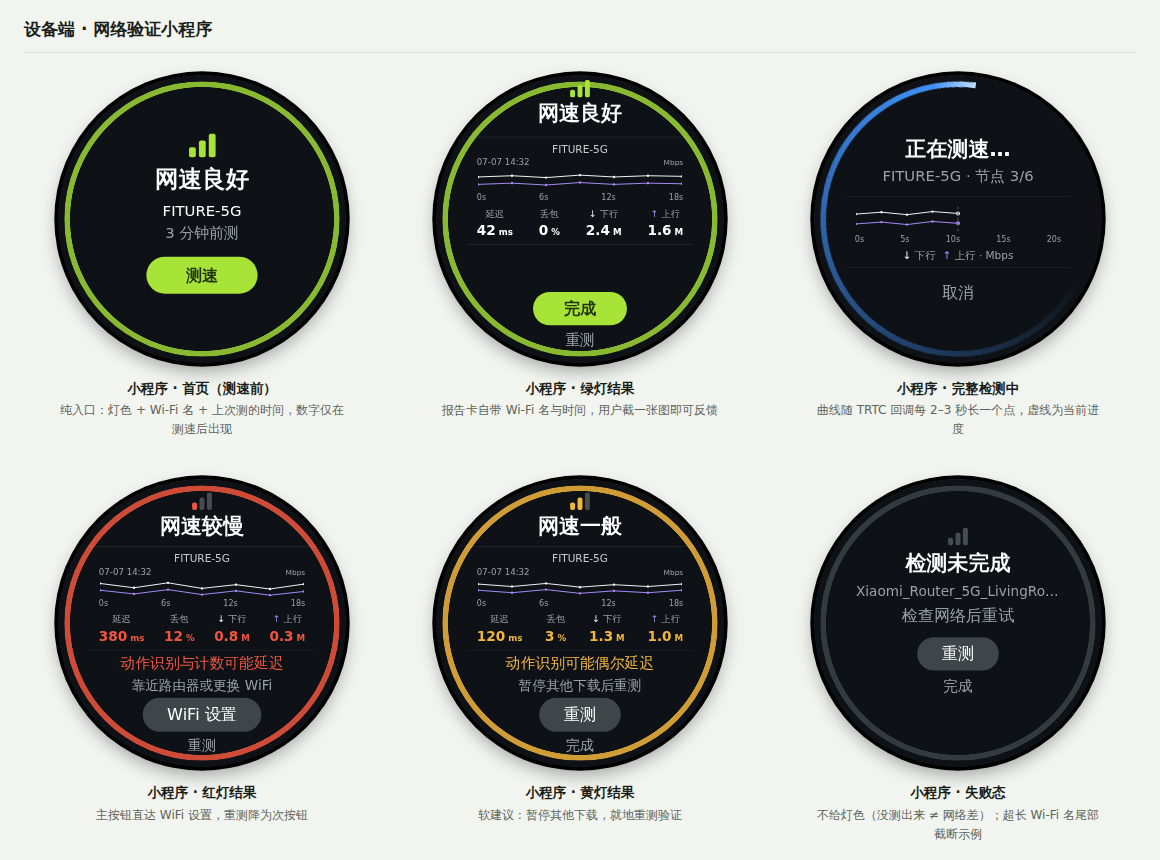
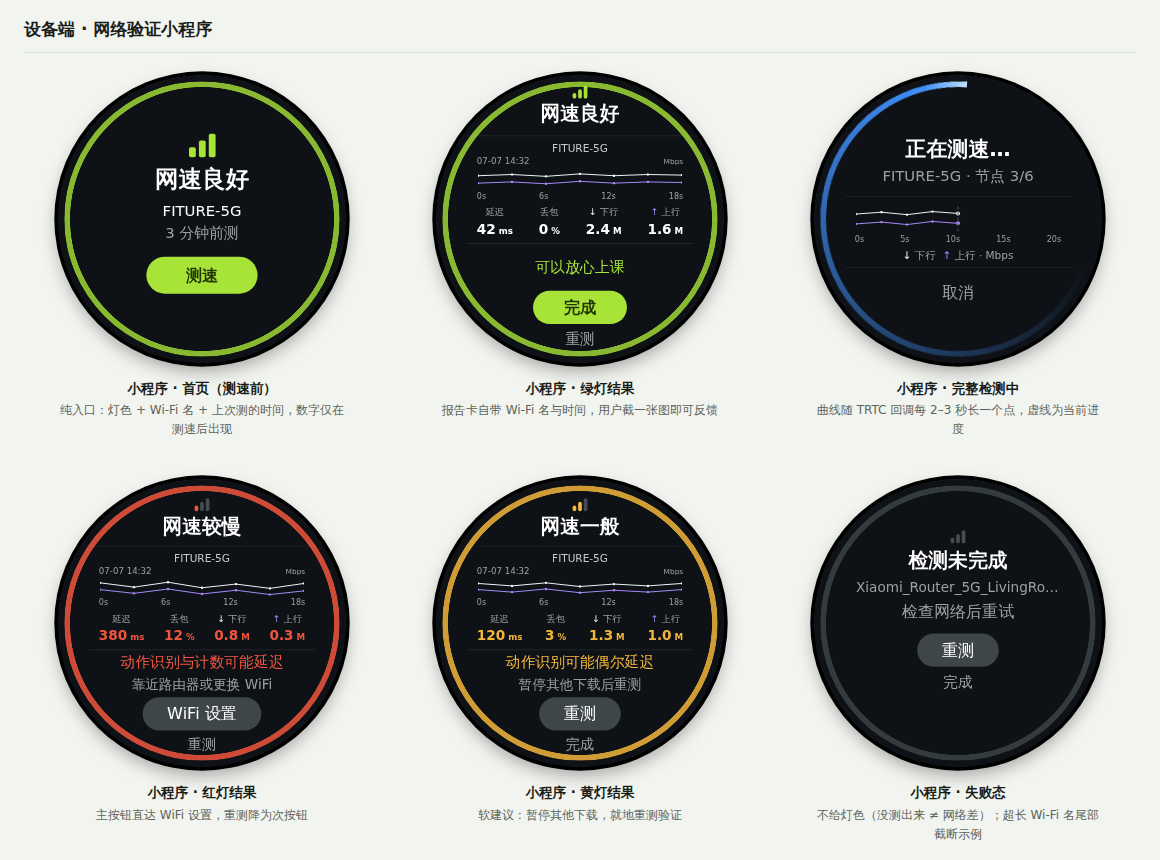
Smaller lowered header bars; green state gets a reassurance line
- Result/failure screens use a 75%-scale bars glyph with extra top
  clearance so the top row never crowds the bezel; result titles 32
- Green result fills its notes zone with "可以放心上课 / Ready for
  class" instead of an empty spacer - the card-to-button gap reads
  intentional and buttons stay fixed across all four states
- Decision recorded: bottom-anchored buttons + vertically-centered
  card was rejected (card height would shift between states and
  screenshots wouldn't line up)

Claude-Session: https://claude.ai/code/session_01GK61VJL6HvXSFdCeuPzjiU

diff --git a/Demo-界面交互UI设计.html b/Demo-界面交互UI设计.html
@@ -66,6 +66,8 @@
   .bars .b1 { height: 12px; } .bars .b2 { height: 20px; } .bars .b3 { height: 28px; }
   .bars.lg { gap: 5px; } .bars.lg i { width: 11px; }
   .bars.lg .b1 { height: 16px; } .bars.lg .b2 { height: 27px; } .bars.lg .b3 { height: 38px; }
+  .bars.sm { gap: 3px; } .bars.sm i { width: 6px; }
+  .bars.sm .b1 { height: 9px; } .bars.sm .b2 { height: 15px; } .bars.sm .b3 { height: 21px; }
   .bars .dim { background: #454d50; }
   .mbars { display: inline-flex; align-items: flex-end; gap: 2px; flex: none; }
   .mbars i { display: block; width: 3px; border-radius: 1px; }
@@ -291,9 +293,9 @@
     <figure class="shot">
       <div class="device"><div class="screen">
         <div class="ring ok"></div>
-        <div style="flex:.36"></div>
-        <span class="bars"><i class="b1" style="background:var(--dev-good)"></i><i class="b2" style="background:var(--dev-good)"></i><i class="b3" style="background:var(--dev-good)"></i></span>
-        <div class="big-status" style="margin-top:2px; font-size:34px" data-en="Good speed">网速良好</div>
+        <div style="flex:.52"></div>
+        <span class="bars sm"><i class="b1" style="background:var(--dev-good)"></i><i class="b2" style="background:var(--dev-good)"></i><i class="b3" style="background:var(--dev-good)"></i></span>
+        <div class="big-status" style="margin-top:2px; font-size:32px" data-en="Good speed">网速良好</div>
         <div class="report-card" style="margin-top:14px">
           <div class="rc-head"><span class="ssid">FITURE-5G</span></div><div class="rc-date"><span>07-07 14:32</span><span style="font-size:12px">Mbps</span></div><svg width="330" height="34" viewBox="0 0 330 34"><polyline points="0,12 55,10 110,13 165,9 220,12 275,10 330,11" fill="none" stroke="#f2f5f6" stroke-width="1.6" stroke-linecap="round"/><circle cx="0" cy="12" r="1.9" fill="#f2f5f6"/><circle cx="55" cy="10" r="1.9" fill="#f2f5f6"/><circle cx="110" cy="13" r="1.9" fill="#f2f5f6"/><circle cx="165" cy="9" r="1.9" fill="#f2f5f6"/><circle cx="220" cy="12" r="1.9" fill="#f2f5f6"/><circle cx="275" cy="10" r="1.9" fill="#f2f5f6"/><circle cx="330" cy="11" r="1.9" fill="#f2f5f6"/><polyline points="0,24 55,22 110,25 165,21 220,24 275,22 330,23" fill="none" stroke="#a78bfa" stroke-width="1.6" stroke-linecap="round"/><circle cx="0" cy="24" r="1.9" fill="#a78bfa"/><circle cx="55" cy="22" r="1.9" fill="#a78bfa"/><circle cx="110" cy="25" r="1.9" fill="#a78bfa"/><circle cx="165" cy="21" r="1.9" fill="#a78bfa"/><circle cx="220" cy="24" r="1.9" fill="#a78bfa"/><circle cx="275" cy="22" r="1.9" fill="#a78bfa"/><circle cx="330" cy="23" r="1.9" fill="#a78bfa"/></svg><div class="rc-axis"><span>0s</span><span>6s</span><span>12s</span><span>18s</span></div>
           <div class="rc-metrics">
@@ -303,10 +305,10 @@
             <div><div class="k"><span style="color:#a78bfa">↑</span> <span data-en="Up">上行</span></div><div class="v">1.6<span> M</span></div></div>
           </div>
           </div>
-        <div class="rc-notes"></div>
+        <div class="rc-notes"><div style="font-size:24px; color:var(--dev-good)" data-en="Ready for class">可以放心上课</div></div>
         <div class="btn primary" style="margin-top:0; padding:9px 50px" data-en="Done">完成</div>
         <div style="font-size:24px; color:var(--dev-sub); margin-top:8px" data-en="Retest">重测</div>
-        <div style="flex:.85"></div>
+        <div style="flex:.66"></div>
       </div></div>
       <figcaption><b>小程序 · 绿灯结果</b><span>报告卡自带 Wi-Fi 名与时间，用户截一张图即可反馈</span></figcaption>
     </figure>
@@ -330,9 +332,9 @@
     <figure class="shot">
       <div class="device"><div class="screen">
         <div class="ring err"></div>
-        <div style="flex:.68"></div>
-        <span class="bars"><i class="b1" style="background:var(--dev-bad)"></i><i class="b2 dim"></i><i class="b3 dim"></i></span>
-        <div class="big-status" style="margin-top:2px; font-size:34px" data-en="Slow speed">网速较慢</div>
+        <div style="flex:.78"></div>
+        <span class="bars sm"><i class="b1" style="background:var(--dev-bad)"></i><i class="b2 dim"></i><i class="b3 dim"></i></span>
+        <div class="big-status" style="margin-top:2px; font-size:32px" data-en="Slow speed">网速较慢</div>
         <div class="report-card" style="margin-top:10px; padding-top:8px">
           <div class="rc-head"><span class="ssid">FITURE-5G</span></div><div class="rc-date"><span>07-07 14:32</span><span style="font-size:12px">Mbps</span></div><svg width="330" height="28" viewBox="0 0 330 28"><polyline points="0,7 55,14 110,6 165,15 220,9 275,16 330,8" fill="none" stroke="#f2f5f6" stroke-width="1.6" stroke-linecap="round"/><circle cx="0" cy="7" r="1.9" fill="#f2f5f6"/><circle cx="55" cy="14" r="1.9" fill="#f2f5f6"/><circle cx="110" cy="6" r="1.9" fill="#f2f5f6"/><circle cx="165" cy="15" r="1.9" fill="#f2f5f6"/><circle cx="220" cy="9" r="1.9" fill="#f2f5f6"/><circle cx="275" cy="16" r="1.9" fill="#f2f5f6"/><circle cx="330" cy="8" r="1.9" fill="#f2f5f6"/><polyline points="0,18 55,24 110,17 165,25 220,19 275,26 330,20" fill="none" stroke="#a78bfa" stroke-width="1.6" stroke-linecap="round"/><circle cx="0" cy="18" r="1.9" fill="#a78bfa"/><circle cx="55" cy="24" r="1.9" fill="#a78bfa"/><circle cx="110" cy="17" r="1.9" fill="#a78bfa"/><circle cx="165" cy="25" r="1.9" fill="#a78bfa"/><circle cx="220" cy="19" r="1.9" fill="#a78bfa"/><circle cx="275" cy="26" r="1.9" fill="#a78bfa"/><circle cx="330" cy="20" r="1.9" fill="#a78bfa"/></svg><div class="rc-axis"><span>0s</span><span>6s</span><span>12s</span><span>18s</span></div>
           <div class="rc-metrics">
@@ -346,7 +348,7 @@
         <div class="advice" style="margin-top:3px; font-size:22px; width:370px" data-en="Move closer or switch Wi-Fi">靠近路由器或更换 WiFi</div></div>
         <div class="btn" style="margin-top:0; padding:9px 40px" data-en="Wi-Fi Settings">WiFi 设置</div>
         <div style="font-size:23px; color:var(--dev-sub); margin-top:6px" data-en="Retest">重测</div>
-        <div style="flex:.6"></div>
+        <div style="flex:.52"></div>
       </div></div>
       <figcaption><b>小程序 · 红灯结果</b><span>主按钮直达 WiFi 设置，重测降为次按钮</span></figcaption>
     </figure>
@@ -354,9 +356,9 @@
     <figure class="shot">
       <div class="device"><div class="screen">
         <div class="ring warn"></div>
-        <div style="flex:.68"></div>
-        <span class="bars"><i class="b1" style="background:var(--dev-warn)"></i><i class="b2" style="background:var(--dev-warn)"></i><i class="b3 dim"></i></span>
-        <div class="big-status" style="margin-top:2px; font-size:34px" data-en="Fair speed">网速一般</div>
+        <div style="flex:.78"></div>
+        <span class="bars sm"><i class="b1" style="background:var(--dev-warn)"></i><i class="b2" style="background:var(--dev-warn)"></i><i class="b3 dim"></i></span>
+        <div class="big-status" style="margin-top:2px; font-size:32px" data-en="Fair speed">网速一般</div>
         <div class="report-card" style="margin-top:10px; padding-top:8px">
           <div class="rc-head"><span class="ssid">FITURE-5G</span></div><div class="rc-date"><span>07-07 14:32</span><span style="font-size:12px">Mbps</span></div><svg width="330" height="28" viewBox="0 0 330 28"><polyline points="0,8 55,12 110,7 165,13 220,9 275,12 330,8" fill="none" stroke="#f2f5f6" stroke-width="1.6" stroke-linecap="round"/><circle cx="0" cy="8" r="1.9" fill="#f2f5f6"/><circle cx="55" cy="12" r="1.9" fill="#f2f5f6"/><circle cx="110" cy="7" r="1.9" fill="#f2f5f6"/><circle cx="165" cy="13" r="1.9" fill="#f2f5f6"/><circle cx="220" cy="9" r="1.9" fill="#f2f5f6"/><circle cx="275" cy="12" r="1.9" fill="#f2f5f6"/><circle cx="330" cy="8" r="1.9" fill="#f2f5f6"/><polyline points="0,18 55,22 110,17 165,23 220,19 275,22 330,18" fill="none" stroke="#a78bfa" stroke-width="1.6" stroke-linecap="round"/><circle cx="0" cy="18" r="1.9" fill="#a78bfa"/><circle cx="55" cy="22" r="1.9" fill="#a78bfa"/><circle cx="110" cy="17" r="1.9" fill="#a78bfa"/><circle cx="165" cy="23" r="1.9" fill="#a78bfa"/><circle cx="220" cy="19" r="1.9" fill="#a78bfa"/><circle cx="275" cy="22" r="1.9" fill="#a78bfa"/><circle cx="330" cy="18" r="1.9" fill="#a78bfa"/></svg><div class="rc-axis"><span>0s</span><span>6s</span><span>12s</span><span>18s</span></div>
           <div class="rc-metrics">
@@ -370,7 +372,7 @@
         <div class="advice" style="margin-top:3px; font-size:22px; width:370px" data-en="Pause other downloads, retest">暂停其他下载后重测</div></div>
         <div class="btn" style="margin-top:0; padding:9px 40px" data-en="Retest">重测</div>
         <div style="font-size:23px; color:var(--dev-sub); margin-top:6px" data-en="Done">完成</div>
-        <div style="flex:.6"></div>
+        <div style="flex:.52"></div>
       </div></div>
       <figcaption><b>小程序 · 黄灯结果</b><span>软建议：暂停其他下载，就地重测验证</span></figcaption>
     </figure>
@@ -379,8 +381,8 @@
       <div class="device"><div class="screen">
         <div class="ring" style="background:conic-gradient(#454d50 0 100%); opacity:.7"></div>
         <div style="flex:.7"></div>
-        <span class="bars"><i class="b1 dim"></i><i class="b2 dim"></i><i class="b3 dim"></i></span>
-        <div class="big-status" style="font-size:34px; margin-top:6px" data-en="Test incomplete">检测未完成</div>
+        <span class="bars sm"><i class="b1 dim"></i><i class="b2 dim"></i><i class="b3 dim"></i></span>
+        <div class="big-status" style="font-size:32px; margin-top:6px" data-en="Test incomplete">检测未完成</div>
         <div style="font-size:22px; color:var(--dev-sub); margin-top:6px; max-width:330px; overflow:hidden; text-overflow:ellipsis; white-space:nowrap">Xiaomi_Router_5G_LivingRoom_2401</div>
         <div class="advice" style="margin-top:4px" data-en="Check network and retry">检查网络后重试</div>
         <div class="btn" style="margin-top:16px; padding:9px 40px" data-en="Retest">重测</div>

diff --git a/PRD-atom网络状态检测与信号同步.md b/PRD-atom网络状态检测与信号同步.md
@@ -118,7 +118,7 @@ ATOM 是一台通过 WiFi 联网的嵌入式训练设备，上课时通过 TRTC 
 
 - **A4.1 首页 = 纯入口（测速前）**：灯色 bars + 一句话结论 + **当前 Wi-Fi 名（SSID）** + 副行数据时效（「刚刚更新」≤60 秒 /「N 分钟前测」≤5 分钟）+ 主按钮「测速」。SSID 必须外显——用户点进来看「网好不好」时往往不知道自己连的是哪个 WiFi，灯色结论必须挂在具体网络名下才可归因（与 B2 按 SSID 缓存一致）。**不展示任何数字指标**——常驻探测没有真实带宽，数字只在测速后出现，「测速前 = 入口、测速后 = 报告」天然可区分；缓存超 5 分钟不显示旧灯色，直接「检测中…」并刷新；
 - **A4.2 检测中**：标题「正在测速…」+ 副行「Wi-Fi: {SSID} · 节点 N / M」（按官方回调驱动，不做假进度）+ 报告卡内波形实时生长（↓ 灰白 = 下行、↑ 紫 = 上行，见 A4.7）+「取消」（调用 `stopSpeedTest`）；按钮防重入（官方限制同一时间仅一个测速任务）；
-- **A4.3 结果页信息分组（四组，组间距 > 组内距）**：① 结论（bars + 一句话）→ ② **报告卡**，卡内自上而下：**表头两行——第 1 行 SSID（超长截断）、第 2 行日期时间（独占一行，永不被 SSID 挤掉）**，不加「Wi-Fi:」前缀（上下文已明确，标签属冗余；带日期是为了反馈截图能和后端日志对上，方便 debug）→ 波形定格 + 时间轴（表头第二行两端对齐：**日期时间靠左、单位「Mbps」靠右**——曲线纵轴 = 上下行带宽，不占额外行高；检测中页无表头，单位并入图例行「↓ 下行 ↑ 上行 · Mbps」）→ 四指标一行：延迟 / 丢包 / ↓ 下行 / ↑ 上行，**标签在上、数值在下**（对比过数值在上的方案：标签在上阅读顺序自然「先知道是什么再看多少」、↓↑ 箭头更靠近它解释的曲线、卡片底边收在加粗数值上更稳，与 Ookla 等主流测速工具一致；标签带曲线同色箭头；-1 显示「—」；着色标准见下表）→ ③ 影响 + 建议（仅黄 / 红；**各固定一行，字数预算：中文 ≤ 14 全角、EN ≤ 30 字符**——这两处是我们自己维护的固定文案集而非动态内容，靠文案表管控长度即可；**不采用跑马灯**：滚动文字在 1–2 米观看距离难读，且截图会截到半句话，破坏「截图即报告」）→ ④ 操作。**影响 / 建议 + 按钮组成固定高度的操作区，主按钮与次按钮的位置在绿 / 黄 / 红 / 失败四态间完全一致**（绿灯无影响建议时留空占位）——重测循环里按钮不位移，防误触、建立肌肉记忆。**一张报告卡 = 一份完整测速报告，截图即可反馈客服**（截图给人看，上报给系统看）。稳定性派生标签：样本方差超阈值时卡下方显示「网络波动较大」。
+- **A4.3 结果页信息分组（四组，组间距 > 组内距）**：① 结论（bars + 一句话）→ ② **报告卡**，卡内自上而下：**表头两行——第 1 行 SSID（超长截断）、第 2 行日期时间（独占一行，永不被 SSID 挤掉）**，不加「Wi-Fi:」前缀（上下文已明确，标签属冗余；带日期是为了反馈截图能和后端日志对上，方便 debug）→ 波形定格 + 时间轴（表头第二行两端对齐：**日期时间靠左、单位「Mbps」靠右**——曲线纵轴 = 上下行带宽，不占额外行高；检测中页无表头，单位并入图例行「↓ 下行 ↑ 上行 · Mbps」）→ 四指标一行：延迟 / 丢包 / ↓ 下行 / ↑ 上行，**标签在上、数值在下**（对比过数值在上的方案：标签在上阅读顺序自然「先知道是什么再看多少」、↓↑ 箭头更靠近它解释的曲线、卡片底边收在加粗数值上更稳，与 Ookla 等主流测速工具一致；标签带曲线同色箭头；-1 显示「—」；着色标准见下表）→ ③ 影响 + 建议（绿灯影响行 = 正向一句「可以放心上课」，黄 / 红 = 风险提示；**各固定一行，字数预算：中文 ≤ 14 全角、EN ≤ 30 字符**——这两处是我们自己维护的固定文案集而非动态内容，靠文案表管控长度即可；**不采用跑马灯**：滚动文字在 1–2 米观看距离难读，且截图会截到半句话，破坏「截图即报告」）→ ④ 操作。**影响 / 建议 + 按钮组成固定高度的操作区，主按钮与次按钮的位置在绿 / 黄 / 红 / 失败四态间完全一致**——重测循环里按钮不位移，防误触、建立肌肉记忆。**决策记录**：对比过「按钮沉底 + 报告卡在剩余空间垂直居中」的动态布局——被否，动态居中会让绿灯与黄 / 红灯的报告卡处在不同高度，状态切换跳动、两张截图对不齐；改为绿灯操作区补一句正向文案，空间用满且布局全态一致。**一张报告卡 = 一份完整测速报告，截图即可反馈客服**（截图给人看，上报给系统看）。稳定性派生标签：样本方差超阈值时卡下方显示「网络波动较大」。
 
   **指标着色标准**（阈值与模块 B4 同源、OTA 可调；数值默认白色，超阈值才变色）：
 
@@ -151,7 +151,7 @@ ATOM 是一台通过 WiFi 联网的嵌入式训练设备，上课时通过 TRTC 
   - **时间密度**：一个样本点 = 一次 TRTC `onSpeedTestResult` 进度回调，官方节奏约每 2–3 秒一点，共约 5–8 点；备选文件测速路径按 1 秒一个吞吐量桶采样（约 15–30 点）。点即真实样本，**只画折线不做平滑插值**（不虚构数据），且**每个样本位置画一个小圆点**（r ≈ 2px）——点标出「哪一刻真的回传过数据」，线只负责连接；
   - **实时刷新**：检测中每收到一个回调就在曲线右端追加一点（可 300ms 缓动画入），**最新一点放大显示**（r ≈ 4px，标记「刚回传」），x 轴 = 已用时长，**检测中用预估总时长定标**（初始 20 秒 = `totalCount` × 近期平均每节点耗时；实际超出预估时轴右端整体扩展并重划刻度，曲线不打断），虚线游标标记当前进度；**结果页 x 轴 = 本次实际耗时**（如实际 14 秒就标到 14s，不凑整到假的 18s）；**波形下沿标注时间轴：4–5 个真实秒数刻度**（示例：结果页 `0s / 6s / 12s / 18s`，检测中 `0s / 5s / 10s / 15s / 20s`），采样点落在刻度尺上，用户能读出「掉速发生在第几秒」。**决策记录**：逐点标秒数太挤（5–8 点 × 每标签约 24px，330px 宽放不下且噪）；只写「每点 ≈ 2–3 秒」信息量不足（读不出事件位置）；均匀秒数刻度两者兼顾——采样间隔属工程参数，写在本 PRD 与上报字段里，不上屏；回调间隔内数值不做假动画。带宽值在延迟阶段尚无效（-1），曲线从首个有效带宽样本开始画；
   - **定格复用**：测速结束波形数据原样冻结进结果页报告卡（同一份数据、同一组件），不重绘不重采样；
-  - **字号层级**（466px 屏基准，自大到小）：结论标题 34 > 影响 24 > 指标数值 22 > 表头 SSID/时间 17 > 指标标签 15 > 时间轴 13——结论是第一眼信息、影响其次，测速数字是佐证细节；正文/按钮 26；组间距大于组内距，宁可留白也不顶到表圈。
+  - **字号层级**（466px 屏基准，自大到小）：结论标题 32 > 影响 24 > 指标数值 22 > 表头 SSID/时间 17 > 指标标签 15 > 时间轴 13——结论是第一眼信息、影响其次，测速数字是佐证细节；正文/按钮 26；结果页顶部 bars 用小号字形（约标准 75%，格高 9/15/21px）并预留顶部安全边距——顶排元素离表圈最近，宁小勿裁；组间距大于组内距，宁可留白也不顶到表圈。
 - **A4.8 边界 · 空态 · 显示保护**（Demo 失败态屏含超长 SSID 截断示例）：
 
 | 场景 | 处理 |
@@ -313,7 +313,7 @@ ATOM 是一台通过 WiFi 联网的嵌入式训练设备，上课时通过 TRTC 
 | 小程序首页 | 主按钮 | 测速 | Speed test |
 | 小程序检测中 | 进度 / 图例 | Wi-Fi: {SSID} · 节点 3/6；↓ 下行 / ↑ 上行 | Wi-Fi: {SSID} · node 3/6; ↓ Down / ↑ Up |
 | 小程序结果 | 绿 / 黄 / 红 | 网速良好 / 网速一般 / 网速较慢 | Good / Fair / Slow speed |
-| 小程序结果 | 影响（黄 / 红） | 动作识别可能偶尔延迟 / 动作识别与计数可能延迟 | Pose tracking may lag at times / Tracking & counting may lag |
+| 小程序结果 | 影响（绿 / 黄 / 红） | 可以放心上课 / 动作识别可能偶尔延迟 / 动作识别与计数可能延迟 | Ready for class / Pose tracking may lag at times / Tracking & counting may lag |
 | 小程序结果 | 建议（路由器弱 / 宽带弱） | 靠近路由器或更换 WiFi / 暂停其他下载后重测 | Move closer or switch Wi-Fi / Pause other downloads, retest |
 | 小程序结果 | 波动标签（方差超阈值） | 网络波动较大 | Unstable connection |
 | 小程序失败态 | — | 检测未完成 / 检查网络后重试 | Test incomplete / Check network and retry |
